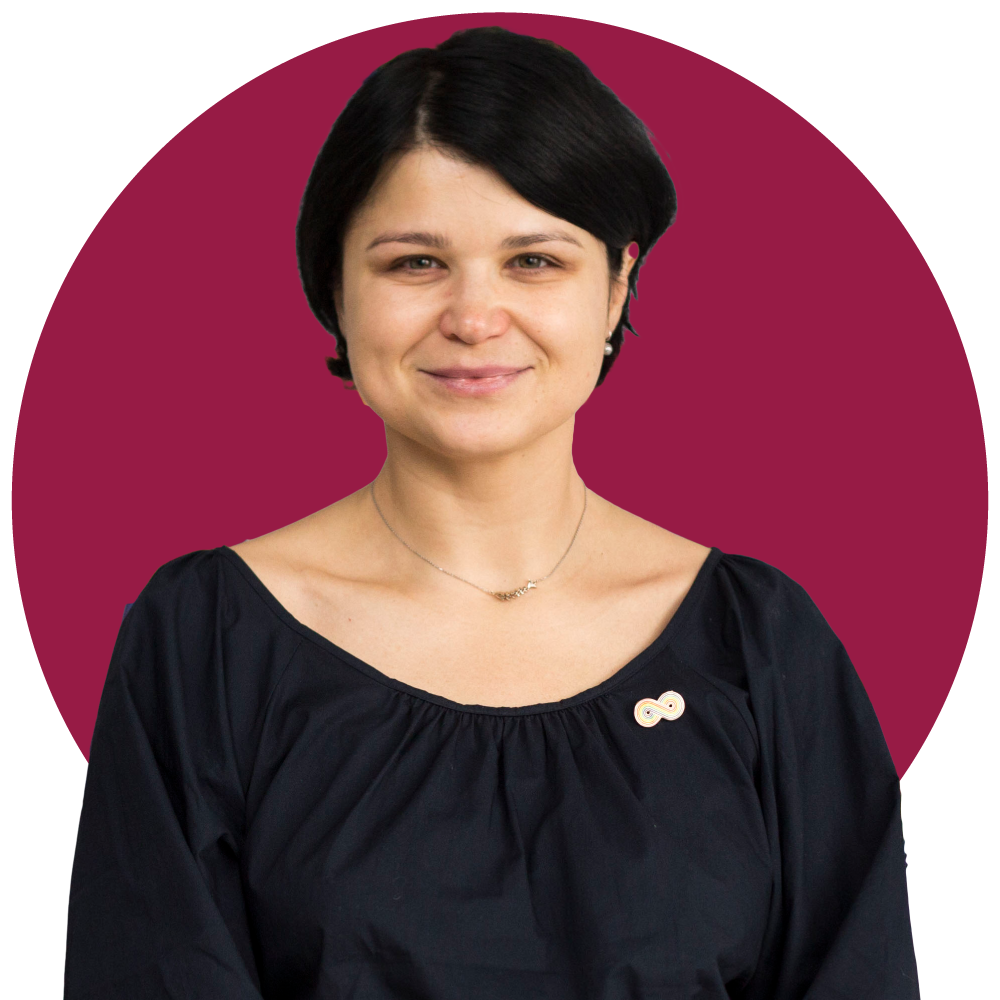
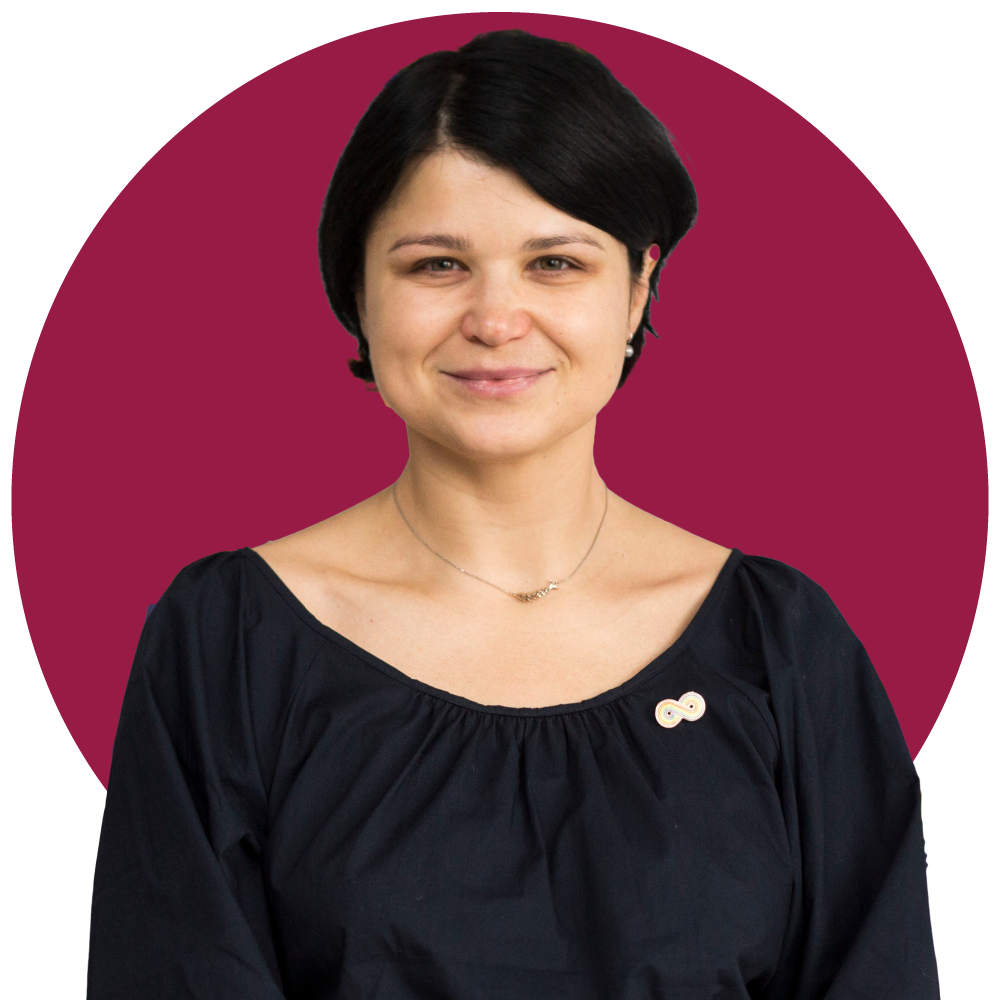
criterias added

diff --git a/components/Membership/Criteria.jsx b/components/Membership/Criteria.jsx
@@ -1,0 +1,69 @@
+import { useTranslation } from "next-i18next";
+import { Container, Row, Col } from "react-bootstrap";
+
+import Image from "next/image";
+//numbers
+import img1 from "../../public/img/membership/1.svg";
+import img2 from "../../public/img/membership/2.svg";
+import img3 from "../../public/img/membership/3.svg";
+import img4 from "../../public/img/membership/4.svg";
+import img5 from "../../public/img/membership/5.svg";
+import img6 from "../../public/img/membership/6.svg";
+import img7 from "../../public/img/membership/7.svg";
+//gallery
+import gl1 from "../../public/img/membership/gl-1.png";
+import gl2 from "../../public/img/membership/gl-2.png";
+import gl3 from "../../public/img/membership/gl-3.png";
+import gl4 from "../../public/img/membership/gl-4.png";
+import gl5 from "../../public/img/membership/gl-5.png";
+import gl6 from "../../public/img/membership/gl-6.png";
+
+const Criteria = () => {
+  const { t } = useTranslation("membership");
+  const numbers = [img1, img2, img3, img4, img5, img6, img7];
+  const gallery = [gl1, gl2, gl3, gl4, gl5, gl6];
+  return (
+    <section>
+      <Container>
+        <Row>
+          <Col xs="12">
+            <p className="text blue">{t("criteria.top")}</p>
+          </Col>
+        </Row>
+        <Row className="my-5">
+          <Col md="7">
+            <Container>
+              {t("criteria.li", { returnObjects: true }).map((item, index) => (
+                <Row key={index} className="my-5">
+                  <Col md="2">
+                    <Image
+                      src={numbers[index]}
+                      alt={index + 1}
+                      className="mx-auto img-fluid p-1"
+                    />
+                  </Col>
+                  <Col md="10">
+                    <h3 className="h3-title lipstick mb-2">{item.title}</h3>
+                    <p className="text blue mb-2">{item.text}</p>
+                  </Col>
+                </Row>
+              ))}
+            </Container>
+          </Col>
+          <Col md="5" className="d-flex flex-wrap">
+            {gallery.map((img, index) => (
+              <Image
+                key={index}
+                src={img}
+                alt={`business woman №${index}`}
+                className="img-fluid m-2"
+              />
+            ))}
+          </Col>
+        </Row>
+      </Container>
+    </section>
+  );
+};
+
+export default Criteria;

diff --git a/components/ui/CarouselWithText.js b/components/ui/CarouselWithText.js
@@ -30,12 +30,10 @@ const CarouselComponent = ({ locale, imgArr, textContent }) => {
                   {t(item.title)}
                 </p>
               </Col>
-              <Col xs="12" md="9" className="">
-                <div className={`${classes.border}`}>
-                  <h2 className="h1-title text-left lipstick">“</h2>
-                  <p className="text-italic blue pb-3">{t(item.quote)}</p>
-                  <h2 className="h1-title text-right lipstick">”</h2>
-                </div>
+              <Col xs="12" md="9">
+                <h2 className="super-title text-left lipstick">“</h2>
+                <p className="text-italic blue pb-3">{t(item.quote)}</p>
+                <h2 className="super-title text-right lipstick">”</h2>
               </Col>
             </Row>
           </Container>

diff --git a/components/Membership/Content.js b/components/Membership/Content.js
@@ -5,10 +5,13 @@ import Title from "../ui/Title";
 import CarouselComponent from "../ui/CarouselWithText";
 import Text from "../ui/Text";
 
-import image from "../../public/img/membership/Iryna-Rubis.png";
+import Rubis from "../../public/img/membership/Iryna-Rubis.png";
+import Derevyanko from "../../public/img/membership/Anna-Derevyanko.png";
+import Strashna from "../../public/img/membership/Oksana-Strashna.png";
+import Kaestner from "../../public/img/membership/Lisa-Kaestner.png";
 const Content = () => {
   const { t } = useTranslation("membership");
-  const imgArr = [image, image, image];
+  const imgArr = [Rubis, Derevyanko, Strashna, Kaestner];
   return (
     <section>
       <Container>

diff --git a/services/fetcher.js b/services/fetcher.js
@@ -1,0 +1,13 @@
+export async function fetcher(url, options = {}) {
+  let response;
+  if (!options) {
+    response = await fetch(url);
+  } else {
+    response = await fetch(url, options);
+  }
+  const data = await response.json();
+  return data;
+}
+export async function fetchImg(url, imgData) {
+  let imgURL;
+}

diff --git a/styles/_variables.scss b/styles/_variables.scss
@@ -66,6 +66,13 @@ $Charcoal: #222528;
   }
 }
 
+.super-title {
+  font-family: $Montserrat;
+  font-weight: 700;
+  font-size: 125px;
+  // font-size: clamp(6rem, 3vw, 9rem);
+}
+
 .h1-title {
   font-family: $Montserrat;
   font-size: clamp(2.5rem, 3vw, 6rem);

diff --git a/components/views/Membership.js b/components/views/Membership.js
@@ -1,9 +1,11 @@
 import Content from "../Membership/Content";
+import Criteria from "../Membership/Criteria";
 
 const Membership = () => {
   return (
     <main>
-      <Content />
+      <Criteria />
+      {/* <Content /> */}
     </main>
   );
 };
